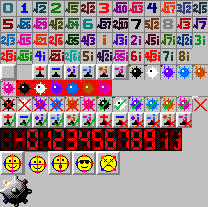
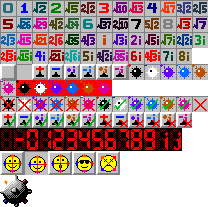
图集加透明通道

Changed region(s): [[0.0, 0.5217, 1.0, 1.0], [0.5192, 0.3768, 1.0, 0.4928], [0.9231, 0.2319, 1.0, 0.3188]]

diff --git a/正式版/tools/gen_atlas.js b/正式版/tools/gen_atlas.js
@@ -152,19 +152,39 @@ const pix = Buffer.alloc(W * H * 4);      // 0 = 透明黑
 // 整块数字就变成一片噪点、像被压扁了。这里把虚段的暗红像素抹成黑，只留点亮的段，
 // 放大后就是干净的经典 LED。想保留虚段效果把这一行改成 false。
 const CLEAN_LED_GHOST_SEGMENTS = false;
+// 游戏贴图走 GDI（BitBlt），**不看 alpha**，槽位里透明的地方就按它自己的 RGB 画出来
+// （编辑器擦掉一个像素通常留下 0,0,0,0 → 屏幕上就是一颗黑点）。所以除图标外，
+// 槽位内凡是 alpha < 255 的像素一律按底色 #C0C0C0 补实；图集空白处保持透明不影响游戏，
+// 作者只保证"槽位矩形里的画是完整的"就够了。
+let healed = 0;
+const healedSlots = new Map();
 for (const p of placed){
   const is_led = CLEAN_LED_GHOST_SEGMENTS && p.name.startsWith('led_');
   for (let ry = 0; ry < p.h; ry++){
     for (let rx = 0; rx < p.w; rx++){
       const s = (ry * p.w + rx) * 4, d = ((p.y + ry) * W + (p.x + rx)) * 4;
       let r = p.im.rgba[s], g = p.im.rgba[s + 1], b = p.im.rgba[s + 2];
+      let a = p.im.rgba[s + 3];
       if (is_led && r > 40 && r < 200 && g < 40 && b < 40){ r = 0; g = 0; b = 0; }
+      if (p.name !== 'icon' && a < 255){
+        const t = a / 255;
+        r = Math.round(r * t + 192 * (1 - t));
+        g = Math.round(g * t + 192 * (1 - t));
+        b = Math.round(b * t + 192 * (1 - t));
+        a = 255;
+        healed += 1;
+        healedSlots.set(p.name, (healedSlots.get(p.name) || 0) + 1);
+      }
       pix[d]     = b;                     // B
       pix[d + 1] = g;                     // G
       pix[d + 2] = r;                     // R
-      pix[d + 3] = p.im.rgba[s + 3];      // A
+      pix[d + 3] = a;                     // A
     }
   }
+}
+if (healed) {
+  const list = [...healedSlots].map(([n, c]) => n + '×' + c).join(' ');
+  console.log(`槽位里的透明像素按底色补实了 ${healed} 个：${list}（GDI 不看 alpha，不补会画成黑点）`);
 }
 
 /* ---------------- 写出 atlas.bin ---------------- */

diff --git a/正式版/tools/pack_atlas.js b/正式版/tools/pack_atlas.js
@@ -124,10 +124,9 @@ for (const g of groups) {
 const NEW_H = y;
 
 /* ---------- 画新画布 ---------- */
-const big = Buffer.alloc(W * NEW_H * 4);
-for (let i = 0; i < W * NEW_H; i++) {
-  big[i * 4] = 192; big[i * 4 + 1] = 192; big[i * 4 + 2] = 192; big[i * 4 + 3] = 255;
-}
+// 空白处保持全透明（作者现在就是这么画的：图集只留贴图，底子透明，看着干净）。
+// 槽位里的透明像素由 gen_atlas.js 按底色补实，游戏走 GDI 不看 alpha。
+const big = Buffer.alloc(W * NEW_H * 4);   // 全 0 = 全透明
 for (const s of meta.slots) {
   const to = spot.get(s.name);
   if (!to) throw new Error('有槽位没排到：' + s.name);
